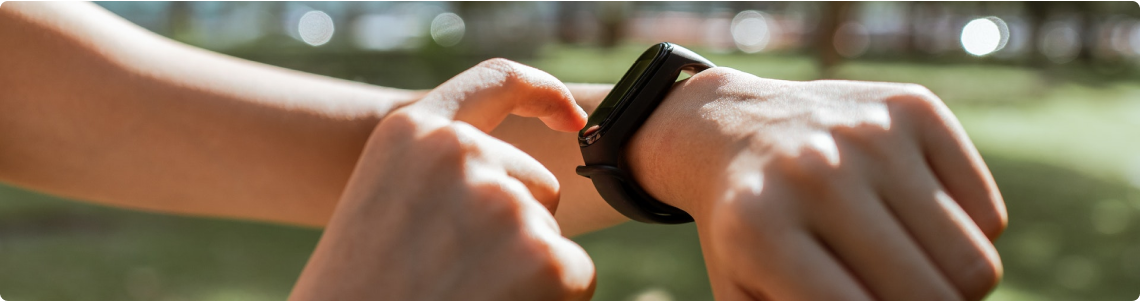
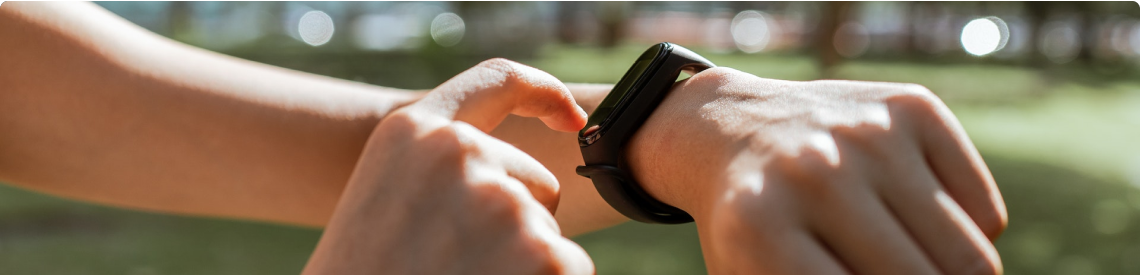
complete

diff --git a/index.html b/index.html
@@ -9,7 +9,8 @@
     <link rel="preconnect" href="https://fonts.googleapis.com"><link rel="preconnect" href="https://fonts.gstatic.com" crossorigin><link href="https://fonts.googleapis.com/css2?family=Open+Sans:wght@500&display=swap" rel="stylesheet">
 </head>
 <body>
-    <header class="bg-img">
+    <header class="img">
+        <img src="/images/banner/banner2.png" alt="">
         <nav class="header-nav">
             <h1 class="header-h1">
                 All Thinks Are Possible If You believe
@@ -46,39 +47,64 @@
         <section>
             <h2 class="my-plan">My Plans</h2>
             <div class="plan-icon">
-                <div class="icon-position">
+                <div>
                     <img src="images/icons/web.png" alt="">
-                    <h4>Web Development</h4>
-                    <h5>I want to start</h5>
+                    <h4 class="icon-name">Web Development</h4>
+                    <h5 class="icon-work">I want to start</h5>
                 </div>
-                <div class="icon-position">
+                <div>
                     <img src="images/icons/js.png" alt="">
-                    <h4>Javascript</h4>
-                    <h5>I want to learn</h5>
+                    <h4 class="icon-name">Javascript</h4>
+                    <h5 class="icon-work">I want to learn</h5>
                 </div>
-                <div class="icon-position">
+                <div>
                     <img src="images/icons/smoke.png" alt="">
-                    <h4>Smoking Habit</h4>
-                    <h5>I want to end</h5>
+                    <h4 class="icon-name">Smoking Habit</h4>
+                    <h5 class="icon-work">I want to end</h5>
                 </div>
-                <div class="icon-position">
+                <div>
                     <img src="images/icons/ecom.png" alt="">
-                    <h4>ecommerce</h4>
-                    <h5>I want to develop</h5>
+                    <h4 class="icon-name">ecommerce</h4>
+                    <h5 class="icon-work">I want to develop</h5>
                 </div>
             </div>
         </section>
         <section>
               <div class="gra-call">
-                <h1 class="gra-h1">
-                    Awlays keep a positive mindset
-                </h1>
-                <button class="gra-btn">
-                    Call Now
-                </button>
+                <img src="./images/gradient2.png" alt="">
+                <div class="gra-hbtn">
+                    <h2 class="gra-h2"> Awlays keep a positive <br> mindset</h2>
+                    <div class="gra-div">
+                        <button class="gra-btn">
+                        Call Now
+                    </button>
+                    </div>
+                </div>
               </div>
         </section>
     </main>
-    
 </body>
+<footer>
+    <div class="div-footer">
+        <div class="div-future">
+            <h2 class="future">Future</h2>
+            <p class="address">There are many variations of passages of Lorem Ipsum available, but the majority have suffered alteration in some form, by injected humour, or randomised words</p>
+            <p>Email : info@gmail.com</p>
+            <p>Phone : 01500 00 00 00</p>
+            <img src="images/icons/fb.png" alt="">
+            <img src="images/icons/twitter.png" alt="">
+            <img src="images/icons/youtube.png" alt="">
+        </div>
+        
+        <div class="subscribe">
+            <h3 class="subscribe-1">
+                Subscribe
+            </h3>
+            <textarea name="" id="" cols="25" rows="2" placeholder="Enter your email" style="background-color: black;"></textarea><br>
+            <button class="btn-secondary">
+                Subscribe
+            </button>
+        </div>
+    </div>
+</footer>
 </html>

diff --git a/assignment.css b/assignment.css
@@ -1,65 +1,66 @@
 *{
     font-family: 'Open Sans', sans-serif;
 }
-.bg-img{
-    background-image: url('./images/banner/banner2.png');
-    background-repeat: no-repeat;
+.img{
+    position: relative;
+}
+.img img{
+    max-width: 100%;
+    height: auto;
 }
 .header-nav{
-      
+    top: 0px;
+    position: absolute;
+    text-align: right;
 }
 .header-h1{
-    font-weight: 700;
-    font-size: 65px;
-    text-align: right;
     color: #151414;
-    padding: 150px 345px 0px;
+    font-weight: 900;
+    font-size: 55px;
+    line-height: 76px;
+    margin: 120px 150px 0px 700px;
 }
 .header-p{
-    font-weight: 400;
-    font-size: 16px;
-    text-align: right;
     color: #444343;
-    padding: 0px 376px 150px;
+    font-weight: 400;
+    font-size: 15px;
+    margin: 0px 150px 0px 700px ;
 }
 .btn-primary{
-    width: 180px;
+    width: 160px;
     height: 64px;
-    font-weight: 600;
-    font-size: 20px;
-    color: #FFFFFF;
-    background-color: coral;
-    text-align: center;
-    align-items: center;
     border-radius: 5px;
-    margin-bottom: 150px;
+    background-color: #F15B22;
+    color: #FFFFFF;
+    border-style: none;
+    font-weight: 700;
+    font-size: 15px;
 }
 
 
 
 
 .section-1{
-    display: flex;
-    
+    display: flex;    
 }
 .person{
     width: 569px;
     height: 723.3px;
-    padding: 40px 130px 10px;
-    
-    
+    margin: 40px 130px 10px;
 }
 .person-1{
     width: 569px;
     height: 723.3px;
-    padding: 250px 139px 82px 0px;
+    margin: 250px 139px 0px 0px;
+   
 }
 .person-heading{
     font-size: 40px;
+    color: #151414;
 }
 .person-p{
     font-size: 16px;
-    color: #444343;
+    color:#444343;
     font-weight: 400;
     
 }
@@ -70,29 +71,124 @@
 .my-plan{
     text-align: center;
     font-size: 40px;
+    font-weight: 700;
+    line-height: 47px;
+    margin-bottom: 30px;
 }
 .plan-icon{
     display: flex;
     text-align: center;
-    margin-left: 250px;
+    margin-left: 224px;
+    gap: 112px;
+    margin-bottom: 60px;
 }
-.icon-position{
-    padding: 50px;
+.icon-name{
+    font-weight: 700;
+    font-size: 20px;
+    color: #151414;
 }
+.icon-work{
+    font-weight: 500;
+    font-size: 15px;
+    color: #737272;
+}
+
+
+
 
 
 
 
 .gra-call{
+    text-align: center;
     background-image: url(./images/watch.png);
+    position: relative;
+    width: 77%;
     background-repeat: no-repeat;
-    margin-left: 120px;
+    margin-left: 150px;
     border-radius: 10px;
+    
+}
+
+.gra-call img{
+    max-width: 100%;
+    height: auto;
+}
+.gra-h2{
+    margin: 60px 0px 0px 70px;
+}
+.gra-div{
+    margin: 0px 0px 0px 70px;
+}
+.gra-hbtn{
+    position: absolute;
+    text-align: left;
+    top: 0px;
+    color: #FFFFFF;
+}
+.gra-btn{
+    width: 120px;
+    height: 50px;
+    color: rgb(248, 68, 2);
+    border-radius: 5px;
+    border-color: white;
+    margin-top: 30px;
+    
+}
+
+
+
+.div-footer{
+    display: flex;
+    justify-content: space-between;
+    background-color: #151414;
+    position: absolute;
+    width: 1381px;
+    height: 577px;
+    left: 0px;
+    top: 2646.3px;
+    color: #F8F8F8;
 
 }
-.gra-h1{
-    padding: 100px 60px;
+.div-future{
+    margin-top: 100px;
+    margin-left: 130px;
 }
+.future{
+   
+    font-weight: 700;
+    font-size: 45px;
+}
+.address{
+    font-weight: 400;
+    font-size: 13px;
+    width: 355px;
+    height: 78px;
+    left: 20px;
+    top: 2845.3px;
+}
+.subscribe{
+    margin-right: 130px;
+    margin-top: 130px;
+
+}
+.subscribe-1{
+    font-weight: 700;
+    font-size: 25px;
+}
+.btn-secondary{
+    width: 170.11px;
+    height: 64px;
+    left: 1046px;
+    top: 2916.3px;
+    background-color: #f9f7f6;
+    color: #F15B22;
+    border-radius: 5px;
+    font-size: 18px;
+    font-weight: 700;
+    margin-top: 10px;
+}
+
 
 
 
